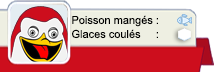
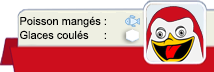
fix gui + fantomes de couleur

diff --git a/src/controleur/ControleurJeu.java b/src/controleur/ControleurJeu.java
@@ -225,7 +225,6 @@ public class ControleurJeu  extends ControleurBase {
             desaturate.setSaturation(-0.75);
             colored.setSaturation(0);
             ImageView tb2 = (ImageView) anchorPane.lookup("#"+joueurPrec+"_gui");
-            tb2.setStyle("-fx-scale-x:0.9;");
             tb2.setEffect(desaturate);
             tb2.setImage(new Image("Images/"+joueurPrec+"_gui_afk.png"));
             if(joueurPrec%2==0)
@@ -238,11 +237,9 @@ public class ControleurJeu  extends ControleurBase {
             }
             //System.out.println(texteInfoJeu);
             ImageView tb = (ImageView) anchorPane.lookup("#"+navigation.moteur.joueurCourant+"_gui");
-            tb.setStyle("-fx-scale-x:2.5;");
-             tb.setStyle("-fx-scale-y:1.2;");
             
-             tb.setEffect(colored);
-             tb.setImage(new Image("Images/"+navigation.moteur.joueurCourant+"_gui_active.png"));
+            tb.setEffect(colored);
+            tb.setImage(new Image("Images/"+navigation.moteur.joueurCourant+"_gui_active.png"));
             joueurPrec = navigation.moteur.joueurCourant;
             
             for(int i=0;i< navigation.moteur.joueurs.length ;i++)
@@ -642,13 +639,13 @@ public class ControleurJeu  extends ControleurBase {
         
         String idCaseSource = indicesToId(dep.ligneSrc, dep.colonneSrc,DEBUTIDTUILE);
         tuileFantome = (ImageView)anchorPane.getScene().lookup("#"+idCaseSource);
-        Image image = new Image("Images/tuileCoule.png") ;
+        Image image = new Image("Images/fantomes/tuilevierge.png") ;
         
         tuileFantome.setImage(image);
         
         String idCaseSourcePinguouin = indicesToId(dep.ligneSrc, dep.colonneSrc,DEBUTIDPINGOUIN);
         pingouinFantome = (ImageView)anchorPane.getScene().lookup("#"+idCaseSourcePinguouin);
-        Image image2 = new  Image("Images/pingouins/fantome.png") ;        
+        Image image2 = new  Image("Images/fantomes/" + navigation.moteur.joueurPrecedent + "_0_6.png") ;        
         pingouinFantome.setImage(image2);
 
         
